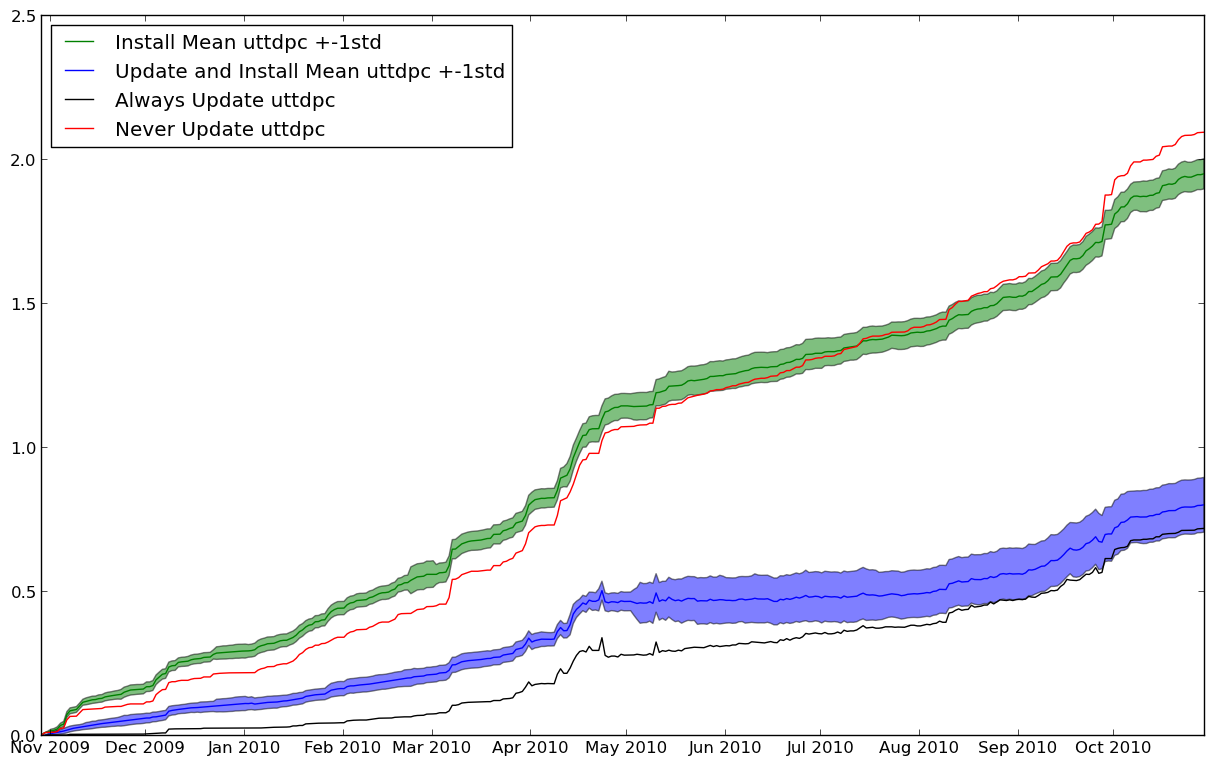
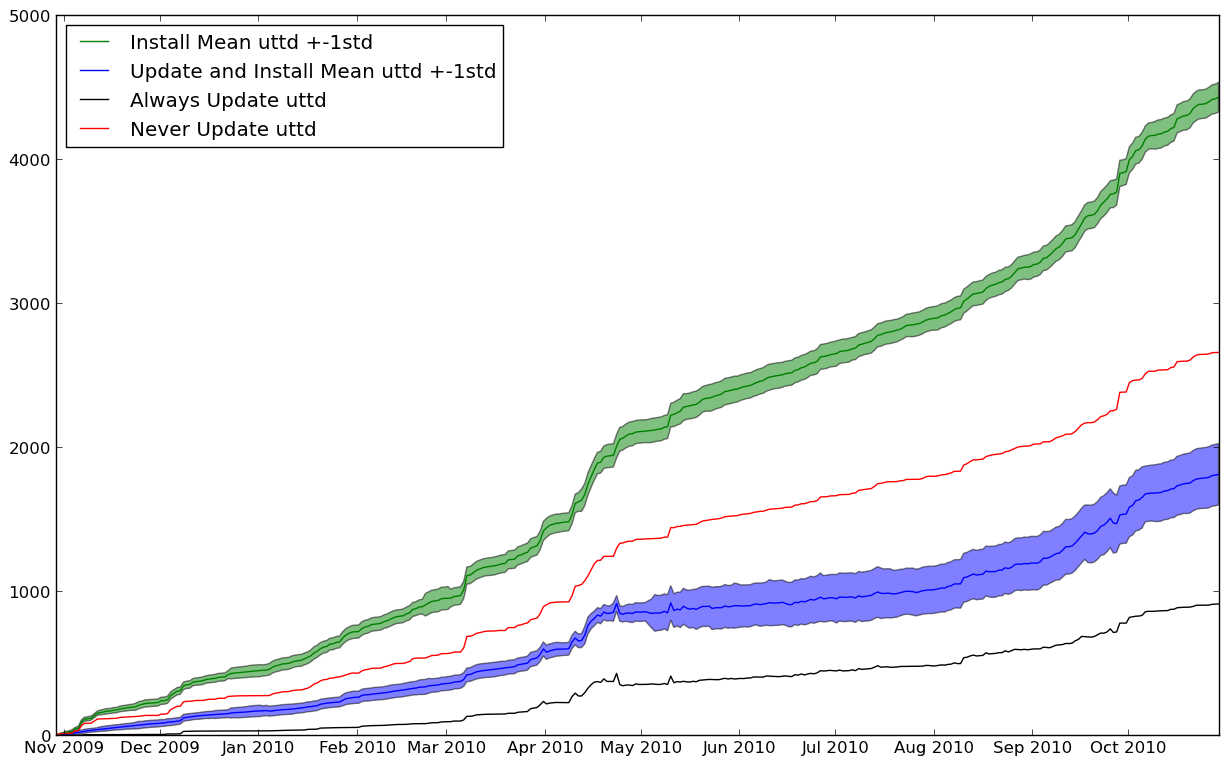
awsome

diff --git a/UbuntuSimulationAnalysis/aq1a.py b/UbuntuSimulationAnalysis/aq1a.py
@@ -32,7 +32,16 @@ def getValueAtTime(t,values):
 	for ds,v in sorted(values,key=lambda x: -x[0]):
 		if ds <= t:
 			return v
-			
+
+def getValueTillTime(t,values):
+	total = 0
+	for ds,v in sorted(values,key=lambda x: x[0]):
+		if ds <= t:
+			total += v
+		else :
+			return total
+	return total
+						
 #Returns sum of values plus minus 12 hours of time (e.g. change)
 def getOnDate(t,values,dd=day):
 	vs = filter(lambda x : x[0] < (t+dd) and x[0] > (t-dd),values)
@@ -48,6 +57,13 @@ def vpd(values):
 		vals.append((da,getValueAtTime(da,values)))
 	return vals
 
+#values till day
+def vtd(values):
+	vals = []
+	for da in allthedays:
+		vals.append((da,getValueTillTime(da,values)))
+	return vals
+	
 #values on day
 def vod(values,dd=day):
 	vals = []
@@ -56,12 +72,19 @@ def vod(values,dd=day):
 	return vals
 		
 def getcache(cfile,key):
-	
 	shelf = shelve.open(cfile)
 	val = shelf[key]
 	shelf.close()
 	return val
 
+def chtt(cfile):
+	ch = vtd(getcache(cfile,"chn"))
+	ch = dict(ch)
+	vals = []
+	for da in allthedays:
+		vals.append(1.0*ch[da])
+	return vals
+	
 def chpd(cfile):
 	ch = vod(getcache(cfile,"chn"))
 	ch = dict(ch)
@@ -93,6 +116,7 @@ def uttdperc(cfile):
 	uttd = dict(uttd)
 	size = dict(size)
 	
+	
 	vals = []
 	for da in allthedays:
 		vals.append(1.0*uttd[da]/size[da])
@@ -120,28 +144,63 @@ uinstalls = filter(lambda x : os.path.basename(x).startswith("u"),files);
 always = os.path.join(folder,"alwaysupdate.user")
 never = os.path.join(folder,"never.user")
 
-def plotuttdpc():
+def plotuttdpd():
 	#UPTODATE Distance per component?
 
 	#What is the difference between always updating and never updating?
 
 
-	auttdpc = uttdperc(always)
-	nuttdpc = uttdperc(never)
 
 	pylab.figure(1)
 
-	cc = ColorConverter()
+	auttdpd = uttdpd(always)
+	nuttdpd = uttdpd(never)
 
+	ivals = map(lambda x : uttdpd(x),installs)
+	imean,istd,imeanpstd,imeanmstd = multimeanstd(ivals)
+	pylab.plot(pallthedays,imean,color='g',label="Install Mean uttd +-1std ")
+	pylab.fill_between(pallthedays, imeanpstd, imeanmstd, facecolor='g', alpha=0.5)
+		        
+	#for i in installs:
+	#	das,iuttdpd = uttdperc(i)
+	#	pylab.plot(das,iuttdpd,color=())
+
+	uivals = map(lambda x : uttdpd(x),uinstalls)
+	uimean,uistd,uimeanpstd,uimeanmstd = multimeanstd(uivals)
+	pylab.plot(pallthedays,uimean,color='blue',label="Update and Install Mean uttd +-1std")
+	pylab.fill_between(pallthedays, uimeanpstd, uimeanmstd, facecolor='blue', alpha=0.5)
+
+	#for i in uinstalls:
+	#	das,iuttdpd = uttdperc(i)
+	#	pylab.plot(das,iuttdpd,color='black')
+
+	pylab.plot(pallthedays,auttdpd,color='black',label="Always Update uttd")
+
+	pylab.plot(pallthedays,nuttdpd,color='r',label="Never Update uttd")	
+
+	pylab.legend(loc="upper left")
+
+	print "Last Always update uttdpd", auttdpd[-1]
+	print "Last Never update uttdpd", nuttdpd[-1]
+
+	saveFigure("q1auttd")
+	
+	
+
+
+	pylab.figure(2)
+
+	auttdpc = uttdperc(always)
+	nuttdpc = uttdperc(never)
+	
 	ivals = map(lambda x : uttdperc(x),installs)
 	imean,istd,imeanpstd,imeanmstd = multimeanstd(ivals)
-
 	pylab.plot(pallthedays,imean,color='g',label="Install Mean uttdpc +-1std ")
 	pylab.fill_between(pallthedays, imeanpstd, imeanmstd, facecolor='g', alpha=0.5)
 		        
 	#for i in installs:
-	#	das,iuttdpc = uttdperc(i)
-	#	pylab.plot(das,iuttdpc,color=())
+	#	das,iuttdpd = uttdperc(i)
+	#	pylab.plot(das,iuttdpd,color=())
 
 	uivals = map(lambda x : uttdperc(x),uinstalls)
 	uimean,uistd,uimeanpstd,uimeanmstd = multimeanstd(uivals)
@@ -149,8 +208,8 @@ def plotuttdpc():
 	pylab.fill_between(pallthedays, uimeanpstd, uimeanmstd, facecolor='blue', alpha=0.5)
 
 	#for i in uinstalls:
-	#	das,iuttdpc = uttdperc(i)
-	#	pylab.plot(das,iuttdpc,color='black')
+	#	das,iuttdpd = uttdperc(i)
+	#	pylab.plot(das,iuttdpd,color='black')
 
 	pylab.plot(pallthedays,auttdpc,color='black',label="Always Update uttdpc")
 
@@ -158,101 +217,121 @@ def plotuttdpc():
 
 	pylab.legend(loc="upper left")
 
-	print "Last Always update uttdpc", auttdpc[-1]
-	print "Last Never update uttdpc", nuttdpc[-1]
+	print "Last Always update uttdperc", auttdpc[-1]
+	print "Last Never update uttdpperc", nuttdpc[-1]
 
-	saveFigure("q1auttd")
+	saveFigure("q1auttdperc")
+	
+	
 	#Static information
 	#Even if systems always update, they will become outof date, (likely due to the core components of the system having keep constraints to maintain system integrity).
 	#The Out of dateness increases dramatically around the 10.04 release, more so for those who do not update.
-	#After a year, systems that dont update become about 2uttdpc out of date, components in the system have on average 2.1 better component available.
-	#After a year, systems that do update are about .72 uttdpc out of date.
-
+	#After a year, systems that dont update become thousands uttd out of date.
+	#After a year, systems that do update are about 1000 uttd out of date.
+	#The standard deviation of the Update and Install uttd increases significantly after May. 
+	#This could be because the release means the  
+	 
 
 	#Comparison
 	#As you can see in this figure Installing components has only a slight effect on the outofdateness of a system w.r.t. updating.
 	#That is, the uttd per component metric for "installing and not updating" and the "not installing and not updating" users are very similar.
 	#Also the "installing and updating" and the "not installing and updating" users are also very similar.
-	#This leads to the conclusions that installing components does not have a large effect on uttdpc.
+	#This leads to the conclusions that installing components does not have a large effect on uttdpd.
 
-def plotsize():
+def analysesize():
 	#Size of the system, of install and uinstall combined
-	pylab.figure(2)
+	
 	ivals = map(lambda x : sizepd(x),installs+uinstalls)
 	imean,istd,imeanpstd,imeanmstd = multimeanstd(ivals)
-	pylab.plot(pallthedays,imean,color='g',label="Install and Update and Install Mean Size")
-	#pylab.fill_between(das, imeanpstd, imeanmstd, facecolor='g', alpha=0.5)
+	sizepdc = numpy.array(imean) - 1270
 
-
-	pylab.legend(loc="upper left")
-
-	saveFigure("q1size")
+	print 4,sizepdc[-1]/len(allthedays)
 	#You can see at the very begining the gradient is steper as the installation requests install common components. As the system evolves the common components have already been installed, making the increasing of the system require less installs
+	#by taking the first 10 installations of every install only user we collect the most commonly installed packages.
+	#libaudio2 for example is installed in every component system after 10 random installs. And it cannot be directly requested for install.
+	#libqt3-mt, libavahi-qt3-1, kdelibs4c2a, liblua50, kdelibs-data, liblualib50, are all installed in 28 of the systems. These are also seen as likely install candadiates.
+	
+	files = []
+	for f in filter(lambda x: x.endswith(".out") and x.startswith("i"), os.listdir("q1a")):
+		files.append(os.path.join("q1a",f))
+	
+	print len(files)
+	def installedPacks(outfile):
+		lines = open(outfile).readlines()
+		ilines = filter(lambda x: x.startswith("Install: "), lines)[:10]
+		ilines =  map(lambda x : filter(lambda x: not x.startswith("("), x[len("Install: "):].strip().split()),ilines)
+		
+		packages = set([p for sublist in ilines for p in sublist])
+		return list(packages)
+	
+	ipacks = map(installedPacks,files)
 
+	allpacks = []
+	for i in ipacks:
+		allpacks += i
+		
+	from collections import defaultdict
+	
+	coutnerd = defaultdict(int)
+	for p in allpacks:
+		coutnerd[p] +=1
+	
 
-def plotchangepd():
-	#CHANGE
-
-	#What are the common packages that are installed? By including these in the base system, it will lower the necessary change to the system as users install other packages.
-
-	#Hypothesis: installing lots will decrease change over time, as common dependencies will be installed!
+def plotchange():
 	fig = pylab.figure(3)
 	
-	bins = [0,1,2,3,4,5,10,20,40,60,80,100]
-	locs = numpy.array(range(len(bins)-1))
-	ticks = ["0","1","2","3","4","5-10","10-20","20-40","40-60","60-80","80-100"]
-	v = chpd(always)
-	hist = numpy.histogram(v,bins=bins)
-	ax1 = fig.add_subplot(311)
-	ax1.bar(locs,hist[0],color='black')
-	pylab.xticks(locs+1/2., ticks)
+	pylab.plot(pallthedays,chtt(always), color="black", label="Always Update Mean change")
 	
-	hists = []
-	for v in map(lambda x : chpd(x),installs):
-		hists.append(numpy.histogram(v,bins=bins)[0])
-	means = numpy.mean(hists,axis=0)
-	ax1 = fig.add_subplot(312)
-	ax1.bar(locs,means,color='g')
-	pylab.xticks(locs+1/2., ticks)
+	uivals = map(lambda x : chtt(x),installs)
+	uimean,uistd,uimeanpstd,uimeanmstd = multimeanstd(uivals)
+	pylab.plot(pallthedays,uimean,color='green',label="Update and Install Mean change +-1std")
+	pylab.fill_between(pallthedays, uimeanpstd, uimeanmstd, facecolor='green', alpha=0.5)
 	
-	hists = []
-	for v in map(lambda x : chpd(x),uinstalls):
-		hists.append(numpy.histogram(v,bins=bins)[0])
-	means = numpy.mean(hists,axis=0)
-	ax1 = fig.add_subplot(313)
-	plt = ax1.bar(locs,means,color='blue')
 	
-	pylab.xticks(locs+1/2., ticks)
-
+	uivals = map(lambda x : chtt(x),uinstalls)
+	uimean,uistd,uimeanpstd,uimeanmstd = multimeanstd(uivals)
+	pylab.plot(pallthedays,uimean,color='blue',label="Update and Install Mean change +-1std")
+	pylab.fill_between(pallthedays, uimeanpstd, uimeanmstd, facecolor='blue', alpha=0.5)
+	
+	pylab.legend(loc="upper left")
+	
 	saveFigure("q1change")
-	#You can see that nearly 80 days out of 365 when updating every day no changes are made! That means that updating everyday is excessive!
-	#When updating every day it can also be seen that most of the updates are belwo 10, with about 40/365 updates changing between 10 and 20, and less than 20 days changing between 2- amd 40.
-	#You can see in the install only graph that just about all changes are below 10
-	#Updating and installing will change the system by between 5 and 20 components. More than half the days of the year the system mean change is above 5.
-	#This is a significant amount of change the system goes through, and is the estimated max amount of change that 
+	#To analyse this information first the always update change is looked at.
+	#The first point to note is the gradients along the curve, there are two, 
+	#1) the gradients before and after the 10.04 release, 2) one during the release cycle, between March and April of 2010. 
+	#On march 1st 469 components had changed, on april 30th it was 1000, August 31st 1373.
+	#During the release the change is 266 changes per month, and previously to that it is at about 100 changes per month (117 before, and 93 after).
+	#So the amount of components required to be upgraded doubles during releases.
 	
+	#Next looking at the installes curve it can be seen that it has a constant gradient.
+	#This gradient result in the mean change of 1137
+	#The standard deviation increases because of catastrauphic requests.
 	
-	pylab.figure(4)
-	ivals = map(lambda x : chpw(x),installs)
-	imean,istd,imeanpstd,imeanmstd = multimeanstd(ivals)
-	pylab.plot(pallthedays,imean,color='g',label="Install Mean Change per week")
-	pylab.fill_between(pallthedays, imeanpstd, imeanmstd, facecolor='g', alpha=0.5)
+	#The update and install change is similar to the combination of the two curves to always update and install.
+	#Change increases during the release months, like in the always update curve, and the variation increases after this period like in the install period.
+	#However the effect of continually installing leads the effect of these to be exaggreated,  
+	# as more components are intalled more are required to be updated.
+	#This makes the total change more than the sum of the two other curves.
 	
-	#ivals = map(lambda x : chpw(x),uinstalls)
-	#imean,istd,imeanpstd,imeanmstd = multimeanstd(ivals)
-	#pylab.plot(palltheweeks,imean,color='blue',label="Update Install Mean Change per week")
-	#pylab.fill_between(palltheweeks, imeanpstd, imeanmstd, facecolor='blue', alpha=0.5)
+
+
 	
-	saveFigure("q1changepweek")
-#plotuttdpc()
-#plotsize()
-plotchangepd()
+def findcatfailures():
+	#TODO find catrastrafic failures
+	pass
 
+			
+plotuttdpd()
+plotchange()
+pylab.show()
 
+#There are two levels of failure that we would like to discuss.
+#First a request that to be satisfied has to alter the system significantly.
+#Second, a request that cannot be satisfied by the system.
+#For the second type there are two types of failure, either failure to install, or failure to update.
 
-
-
-
+#Catrastraphic change (Change that is above normal (TODO))
+#(i1 i3 and i5 all have a catrastraphic change, but only uandi1 has a catratrauphic change. This suggests that because of the constantly updating the changes made in i3 and i5 were averted. Another reason to upgrade.
 
 #Failure is interesting
 #Reasons for Failure:
@@ -288,7 +367,7 @@ plotchangepd()
 #req=install: parole
 
 
-#U and I
+#Update failure
 #An interesting but rare case (occured once) under certain conditions installing "Chromium Browser" requires two versions of the package libc6 installed, this means the following upgrade fails, and the intall after that removes chomium-browser from the system with the superfluous libc6 package.
 
 

diff --git a/UbuntuSimulationAnalysis/usercache.py b/UbuntuSimulationAnalysis/usercache.py
@@ -14,7 +14,7 @@ from multiprocessing import Pool
 print "Load init stuff"
 
 initsys = cudfpkg.createProfileChangeRequest("9.10.cudf",nameversiononly=True)
-allcomps = cudfpkg.createProfileChangeRequest("1288868400.0",nameversiononly=False)
+allcomps = None
 
 
 start = 1256814000 #one day before first action
@@ -26,12 +26,16 @@ end = 1288410600
 #q1afiles = map(lambda x: os.path.join(q1afolder,x),q1afiles)
 
 
-def doit(cudfs,userfile):
+def doit(cudfs,userfile,reqComps=False):
+	if reqComps and allcomps==None:
+		allcomps = cudfpkg.createProfileChangeRequest("1288868400.0",nameversiononly=False)
 	if cudfs == None:
 		gc.collect()
-		ncudfs = utils.processSolutionsFolder(userfile+".sols")
-		ncudfs[start] = initsys #add original system
-		return ncudfs
+		cudfs = utils.processSolutionsFolder(userfile+".sols")
+		cudfs[start] = initsys #add original system
+	return cudfs
+	
+
 	
 def cacheuser(userfile):
 	print "cache",userfile
@@ -39,7 +43,7 @@ def cacheuser(userfile):
 	#end = 1256814000+(24*60*60*10)
 	uttd = "uttd"
 	if not iscached(userfile,uttd):
-		cudfs = doit(cudfs,userfile)
+		cudfs = doit(cudfs,userfile,reqComps=True)
 		print "Add uptodate distance to ",userfile
 		cache(userfile,utils.getUptoDateDistance(start,end,cudfs,allcomps),uttd)
 	
@@ -66,6 +70,13 @@ def cacheuser(userfile):
 		cudfs = doit(cudfs,userfile)
 		print "Add new Names ",userfile
 		cache(userfile,utils.newNames(cudfs),newnames)
+	
+	remnames = "rcn"
+	if not iscached(userfile,remnames):
+		cudfs = doit(cudfs,userfile)
+		print "Add removed Names ",userfile
+		cache(userfile,utils.removedNames(cudfs),remnames)
+		
 	
 
 def iscached(userfile, key):
